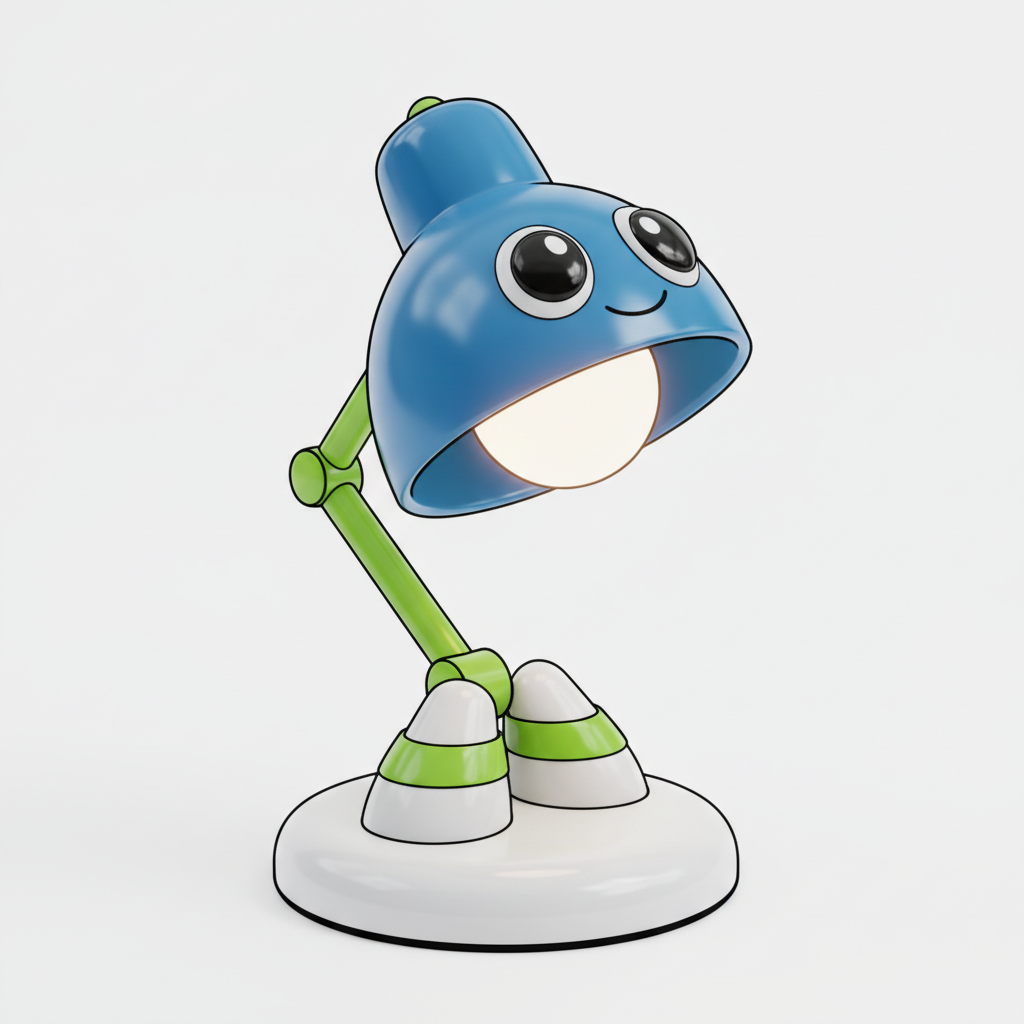
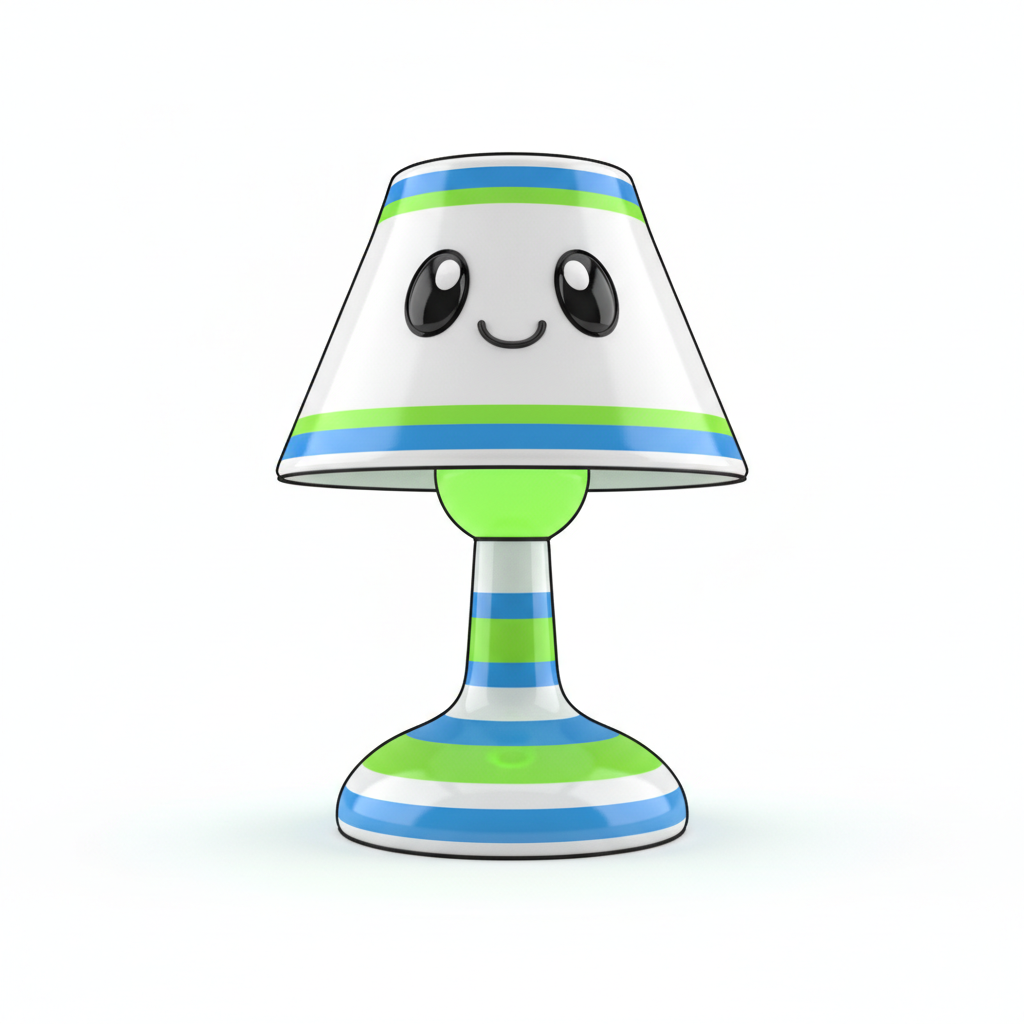
Trainer white fix?

Changed region(s): [[0.1875, 0.0938, 0.75, 0.9375]]

diff --git a/components/ArScene.tsx b/components/ArScene.tsx
@@ -10,20 +10,13 @@ import {
   type ReactNode,
 } from "react";
 import { Canvas, useFrame, useThree } from "@react-three/fiber";
-import {
-  Billboard,
-  Html,
-  useAnimations,
-  useFBX,
-  useGLTF,
-  useTexture,
-} from "@react-three/drei";
+import { Billboard, Html, useGLTF, useTexture } from "@react-three/drei";
 import * as THREE from "three";
 import { NEARBY_RADIUS_M } from "@/lib/types";
 
 // A simulated ground-plane AR scene: a transparent r3f canvas layered over the
 // live camera feed. Wild Anymon render as their real GLB (sprite-plane while
-// still incubating); nearby trainers render as the shared Player.fbx avatar.
+// still incubating); nearby trainers render as a simple low-poly primitive avatar.
 // The whole scene group is rotated by the device compass heading so blips sit
 // in the correct real-world direction as you turn.
 
@@ -108,6 +101,38 @@ function depthCues(distM: number) {
   };
 }
 
+// Soft "blob" ground shadow: a radial-gradient sprite laid flat on the floor.
+// Used instead of real shadow mapping (which crashes mobile GPUs with the skinned
+// trainer FBX). The texture is built lazily in the browser and shared.
+let blobTex: THREE.Texture | null = null;
+function getBlobTexture(): THREE.Texture {
+  if (blobTex) return blobTex;
+  const size = 128;
+  const c = document.createElement("canvas");
+  c.width = c.height = size;
+  const ctx = c.getContext("2d");
+  if (ctx) {
+    const g = ctx.createRadialGradient(size / 2, size / 2, 0, size / 2, size / 2, size / 2);
+    g.addColorStop(0, "rgba(4,34,42,0.5)");
+    g.addColorStop(0.6, "rgba(4,34,42,0.2)");
+    g.addColorStop(1, "rgba(4,34,42,0)");
+    ctx.fillStyle = g;
+    ctx.fillRect(0, 0, size, size);
+  }
+  blobTex = new THREE.CanvasTexture(c);
+  return blobTex;
+}
+
+function BlobShadow({ y, radius }: { y: number; radius: number }) {
+  const tex = useMemo(() => getBlobTexture(), []);
+  return (
+    <mesh rotation={[-Math.PI / 2, 0, 0]} position={[0, y, 0]}>
+      <planeGeometry args={[radius * 2, radius * 2]} />
+      <meshBasicMaterial map={tex} transparent depthWrite={false} />
+    </mesh>
+  );
+}
+
 // ---- a roaming wild Anymon rendered from its GLB ----
 function WildModel({
   glbUrl,
@@ -130,7 +155,6 @@ function WildModel({
         mesh.material = Array.isArray(mesh.material)
           ? mesh.material.map((m) => m.clone())
           : mesh.material.clone();
-        mesh.castShadow = true; // cast onto the ground shadow-catcher
       }
     });
     return c;
@@ -285,6 +309,7 @@ function WildEntity({
   return (
     <group position={[x, 0, z]}>
       <group ref={wanderRef}>
+        <BlobShadow y={FLOOR_Y} radius={Math.max(0.5, height * 0.55)} />
         <Suspense fallback={sprite}>
           {wild.ready && wild.glbUrl ? (
             <ModelErrorBoundary fallback={sprite}>
@@ -335,52 +360,63 @@ function WildEntity({
   );
 }
 
-// ---- a nearby trainer rendered as the shared Player.fbx ----
+// ---- a nearby trainer, drawn as a simple low-poly avatar ----
+// Built entirely from primitives ON PURPOSE: the Sketchfab Player.fbx carried a
+// skinned mesh + materials that crashed mobile WebGL and white-screened the whole
+// scene whenever another player appeared. Primitives load instantly and can never
+// break the GL context. ~2.4 units tall so trainers clearly tower over Anymon.
 function TrainerModel() {
-  const fbx = useFBX("/models/Player.fbx");
-  // NOTE: do NOT enable castShadow here. The trainer is a SKINNED (animated)
-  // mesh, and rendering a skinned mesh into the shadow map compiles a skinning
-  // depth shader that crashes the WebGL context on some mobile GPUs — which made
-  // EVERY model in the scene render white the moment another player appeared.
-  const cloned = useMemo(() => fbx.clone(true), [fbx]);
   const ref = useRef<THREE.Group>(null);
-  const { actions, names } = useAnimations(cloned.animations ?? [], ref);
-  // Trainers are human avatars, not Anymon — render them clearly TALLER than the
-  // wild creatures (max ~1.8) so players never confuse the two. Lift = height/2
-  // keeps the model's feet on the floor.
-  const TRAINER_HEIGHT = 2.6;
-  const { scale, center } = useAutoFit(cloned, TRAINER_HEIGHT);
-
-  useEffect(() => {
-    const first = names[0];
-    if (first && actions[first]) actions[first]?.reset().fadeIn(0.3).play();
-    return () => {
-      if (first && actions[first]) actions[first]?.fadeOut(0.2);
-    };
-  }, [actions, names]);
-
+  useFrame((state) => {
+    if (ref.current) {
+      ref.current.position.y =
+        FLOOR_Y + Math.sin(state.clock.elapsedTime * 1.6) * 0.05;
+    }
+  });
+  const skin = "#F2C49B";
+  const outfit = "#3FB0D6";
+  const pants = "#2C3E50";
+  const cap = "#FF3B53";
   return (
-    <group ref={ref}>
-      <group
-        scale={scale}
-        position={[
-          -center.x * scale,
-          -center.y * scale + TRAINER_HEIGHT / 2 + FLOOR_Y, // feet on the floor
-          -center.z * scale,
-        ]}
-      >
-        <primitive object={cloned} />
-      </group>
+    <group ref={ref} position={[0, FLOOR_Y, 0]}>
+      {/* legs */}
+      <mesh position={[-0.2, 0.45, 0]}>
+        <capsuleGeometry args={[0.15, 0.55, 4, 8]} />
+        <meshStandardMaterial color={pants} />
+      </mesh>
+      <mesh position={[0.2, 0.45, 0]}>
+        <capsuleGeometry args={[0.15, 0.55, 4, 8]} />
+        <meshStandardMaterial color={pants} />
+      </mesh>
+      {/* torso */}
+      <mesh position={[0, 1.3, 0]}>
+        <capsuleGeometry args={[0.4, 0.75, 6, 12]} />
+        <meshStandardMaterial color={outfit} />
+      </mesh>
+      {/* arms */}
+      <mesh position={[-0.48, 1.35, 0]} rotation={[0, 0, 0.28]}>
+        <capsuleGeometry args={[0.12, 0.6, 4, 8]} />
+        <meshStandardMaterial color={outfit} />
+      </mesh>
+      <mesh position={[0.48, 1.35, 0]} rotation={[0, 0, -0.28]}>
+        <capsuleGeometry args={[0.12, 0.6, 4, 8]} />
+        <meshStandardMaterial color={outfit} />
+      </mesh>
+      {/* head */}
+      <mesh position={[0, 2.05, 0]}>
+        <sphereGeometry args={[0.32, 16, 16]} />
+        <meshStandardMaterial color={skin} />
+      </mesh>
+      {/* cap + brim */}
+      <mesh position={[0, 2.32, 0]}>
+        <cylinderGeometry args={[0.33, 0.33, 0.16, 16]} />
+        <meshStandardMaterial color={cap} />
+      </mesh>
+      <mesh position={[0, 2.26, 0.3]}>
+        <boxGeometry args={[0.48, 0.06, 0.3]} />
+        <meshStandardMaterial color={cap} />
+      </mesh>
     </group>
-  );
-}
-
-function TrainerFallback() {
-  return (
-    <mesh position={[0, FLOOR_Y + 1.3, 0]}>
-      <capsuleGeometry args={[0.5, 1.6, 4, 8]} />
-      <meshStandardMaterial color="#3FB0D6" />
-    </mesh>
   );
 }
 
@@ -400,11 +436,8 @@ function TrainerEntity({
   const [x, z] = placeXZ(bearing, trainer.distM);
   return (
     <group position={[x, 0, z]}>
-      <Suspense fallback={<TrainerFallback />}>
-        <ModelErrorBoundary fallback={<TrainerFallback />}>
-          <TrainerModel />
-        </ModelErrorBoundary>
-      </Suspense>
+      <BlobShadow y={FLOOR_Y} radius={0.95} />
+      <TrainerModel />
       {showOverlays && (
         <Html
           position={[0, FLOOR_Y + 2.9, 0]}
@@ -589,7 +622,6 @@ export default function ArScene({
   return (
     <div className={`pointer-events-none absolute inset-0 ${className}`}>
       <Canvas
-        shadows
         gl={{ alpha: true, antialias: true }}
         camera={{ position: [0, 1.5, 0], fov: 65, near: 0.1, far: 120 }}
         dpr={[1, 2]}
@@ -598,28 +630,12 @@ export default function ArScene({
         <CameraRig pitchRef={pitchRef} />
         <ambientLight intensity={0.85} />
         <hemisphereLight intensity={0.5} groundColor="#bfe9ff" />
-        <directionalLight
-          position={[4, 8, 5]}
-          intensity={1.3}
-          castShadow
-          shadow-mapSize-width={1024}
-          shadow-mapSize-height={1024}
-          shadow-camera-near={0.5}
-          shadow-camera-far={40}
-          shadow-camera-left={-16}
-          shadow-camera-right={16}
-          shadow-camera-top={16}
-          shadow-camera-bottom={-16}
-          shadow-bias={-0.0004}
-        />
+        {/* No shadow MAPPING: with shadows enabled, the skinned (animated) trainer
+            FBX compiles shadow+skinning shaders that crash mobile GPUs and white
+            out the whole scene. We fake grounding with soft blob shadows instead
+            (see BlobShadow), so no real shadow shaders are ever compiled. */}
+        <directionalLight position={[4, 8, 5]} intensity={1.3} />
         <directionalLight position={[-4, 3, -3]} intensity={0.4} color="#8BE01E" />
-
-        {/* Transparent ground that only darkens where Anymon cast a shadow, so a
-            soft contact shadow lands on the real floor over the camera feed. */}
-        <mesh rotation={[-Math.PI / 2, 0, 0]} position={[0, FLOOR_Y, 0]} receiveShadow>
-          <planeGeometry args={[80, 80]} />
-          <shadowMaterial transparent opacity={0.32} color="#04222a" />
-        </mesh>
 
         <HeadingGroup headingRef={headingRef} fallbackHeading={heading}>
           {wild.map((w, i) => (
@@ -647,5 +663,3 @@ export default function ArScene({
     </div>
   );
 }
-
-useFBX.preload?.("/models/Player.fbx");

diff --git a/app/api/seed/route.ts b/app/api/seed/route.ts
@@ -5,19 +5,19 @@ import { NEARBY_RADIUS_M, rarityMaxHp, type Anymon } from "@/lib/types";
 export const runtime = "nodejs";
 
 // Bump when the seed set changes so old placeholders are cleaned up + replaced.
-const SEED_VERSION = "v2";
+const SEED_VERSION = "v3";
 
 // Real pre-generated starter Anymon: each `asset` has a matching sprite + 3D
 // model under /public/seeds (built FROM that object via Gemini + Meshy, see
 // scripts/gen-seeds.mjs), so name ↔ object ↔ model all agree and they read as
 // genuine Anymon instead of random sample models with mismatched names.
 // Commonness-based rarity stays harsh (everyday objects = 1 star).
+// Clustered in a frontal arc (bearings within ~70°) + staggered distance so they
+// spawn together in front of the player instead of surrounding them.
 const SEEDS = [
-  { asset: "book", object: "book", name: "Tomeling", owner: "maple-7f3a", city: "Berkeley", country: "USA", rarity: 1 },
-  { asset: "mug", object: "mug", name: "Muglet", owner: "comet-2b1c", city: "Tokyo", country: "Japan", rarity: 1 },
-  { asset: "umbrella", object: "umbrella", name: "Brellox", owner: "river-9d4e", city: "London", country: "UK", rarity: 2 },
-  { asset: "lamp", object: "lamp", name: "Lumosaur", owner: "nova-5a8b", city: "Paris", country: "France", rarity: 1 },
-  { asset: "telescope", object: "telescope", name: "Scopestar", owner: "orbit-1a2b", city: "Reykjavik", country: "Iceland", rarity: 5 },
+  { asset: "book", object: "book", name: "Tomeling", owner: "maple-7f3a", city: "Berkeley", country: "USA", rarity: 1, bearing: -30, dist: 24 },
+  { asset: "mug", object: "mug", name: "Muglet", owner: "comet-2b1c", city: "Tokyo", country: "Japan", rarity: 1, bearing: 8, dist: 33 },
+  { asset: "telescope", object: "telescope", name: "Scopestar", owner: "orbit-1a2b", city: "Reykjavik", country: "Iceland", rarity: 5, bearing: 36, dist: 26 },
 ];
 
 function offset(lat: number, lng: number, meters: number, bearingDeg: number) {
@@ -63,7 +63,7 @@ export async function POST(req: Request) {
     let seeded = 0;
     for (let i = 0; i < SEEDS.length; i++) {
       const s = SEEDS[i];
-      const pos = offset(lat, lng, 25 + i * 15, i * 90);
+      const pos = offset(lat, lng, s.dist, s.bearing);
       const maxHp = rarityMaxHp(s.rarity);
       const a: Anymon = {
         id: crypto.randomUUID(),

diff --git a/components/DeckView.tsx b/components/DeckView.tsx
@@ -534,7 +534,7 @@ function AnymonCard({
           {/* Roaming "won N battles" notice */}
           {a.state === "wild" && a.pendingWins > 0 && (
             <div className="win-notice mt-1.5">
-              ⚔ won {a.pendingWins} {a.pendingWins === 1 ? "battle" : "battles"}
+              won {a.pendingWins} {a.pendingWins === 1 ? "battle" : "battles"}
             </div>
           )}
 